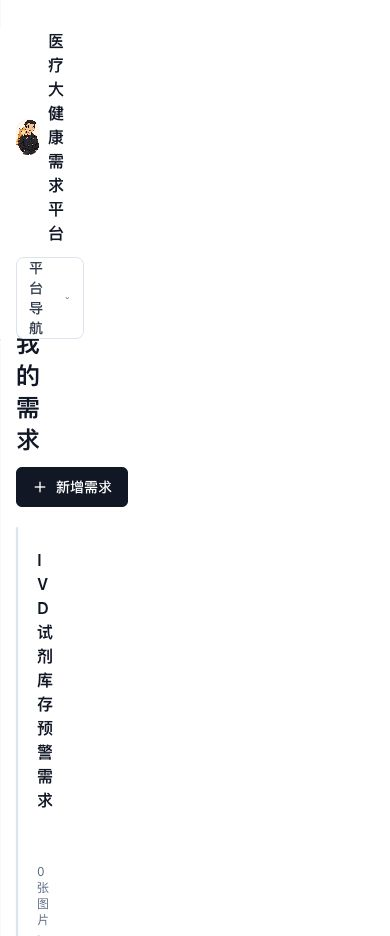
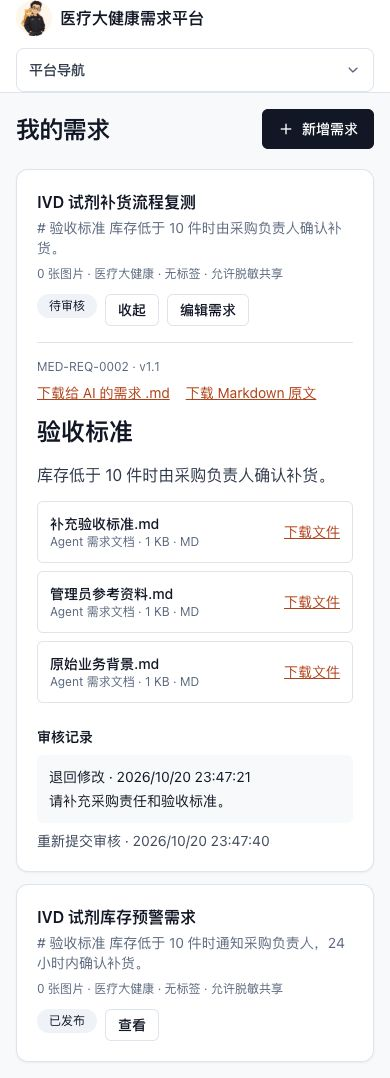
docs: refresh merged workflow browser evidence

diff --git a/verification/README.md b/verification/README.md
@@ -44,3 +44,5 @@ PATCH 保留未提供的 fileIds，显式提交时替换材料关联。作者可
 截图已全部更新为合并后的医疗平台。浏览器使用独立主机 `http://resubmission.localhost:5185`（本机无法绑定未配置的 127.0.0.5，改用独立 .localhost 主机隔离 Cookie），API 3015，隔离 SQLite `/tmp/jack-resubmission-ui/updated.db` 和目录 `/tmp/jack-resubmission-ui/updated-uploads`。未清理其他 session Cookie，也未停止其他 session 服务。
 
 桌面和 390px 窄屏验证：管理员退回 → 作者看到具体原因与 MED-REQ-0001/v1.0 → 编辑正文、预览 Markdown、选择新材料（保留原始资料和管理员资料）→ 保存仍已退回，版本为 v1.1 → 独立重提后仍 v1.1、三份资料均保留 → 管理员看到新版正文、材料和历史，逐文件只批准补充资料并填写脱敏公开正文 → 发布成功，历史、编号和版本保留且无重复审核按钮。
+
+窄屏重提截图补录使用同一隔离库中的第二条合成需求 MED-REQ-0002/v1.1（预置三份材料与退回记录，浏览器实际执行 resubmit），确认 390px 下正文/材料列表无横向溢出。第一条需求发布后的公开案例页也已验证：只列出勾选通过的“补充验收标准.md”，展示审核填写的脱敏公开正文，不列出另两份私有材料。见 [窄屏公开案例](mobile-public-case.png)。
